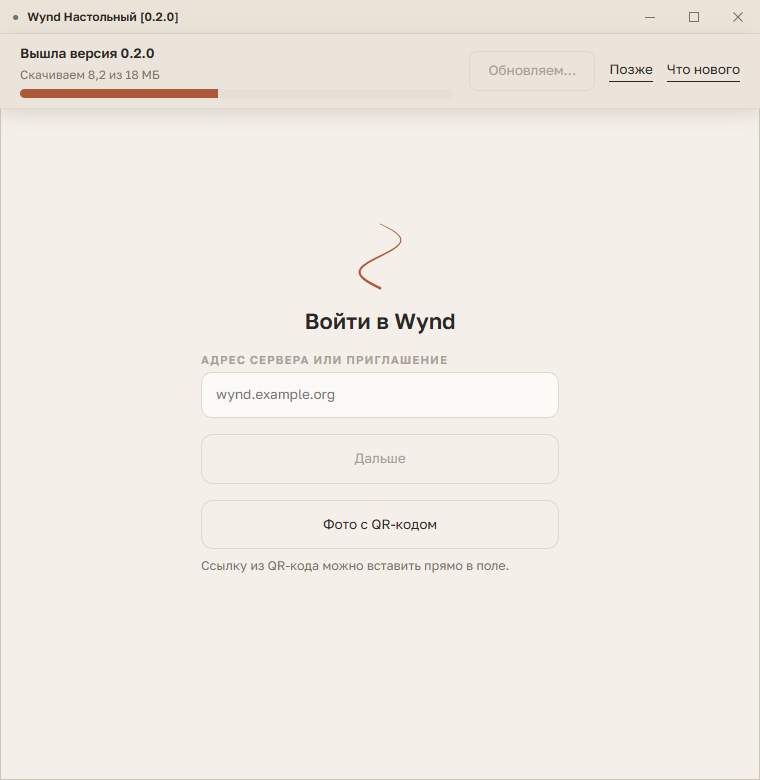
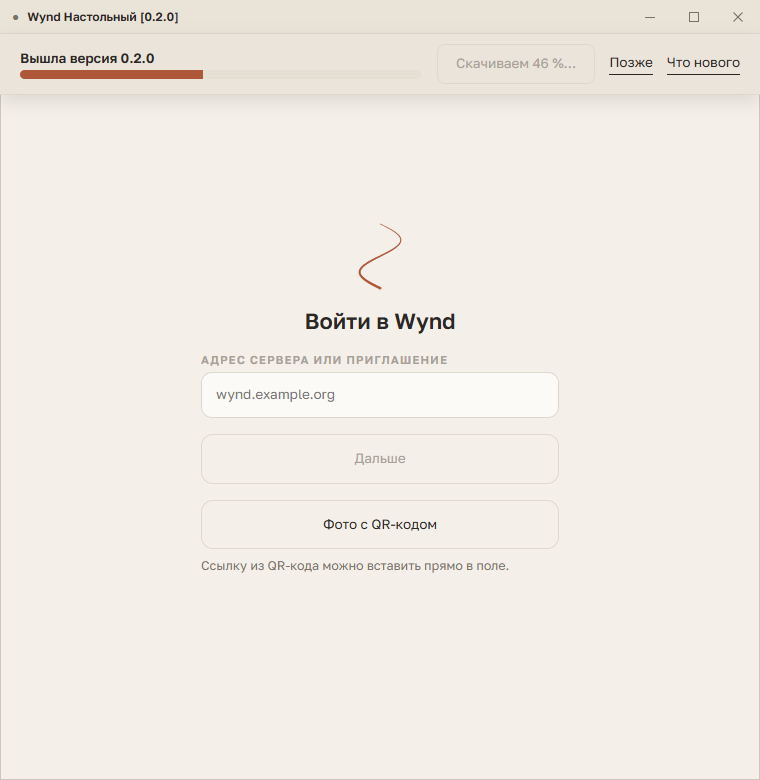
Ход скачивания — внутри полосы, высота прежняя
По замечанию владельца: строка под заголовком раздувала полосу до 75 px. Теперь Meter под заголовком внутри ряда кнопок (колонка 30,6 меньше ряда 37,6), числа — процентом на кнопке «Скачиваем 46 %…». Полоса 58,6 в покое и 60,6 в установке — разница 2 px от рамки выключенной кнопки, не от хода. Кадр и замеры обновлены; первая редакция записана как отклонённая.

diff --git a/cmd/wynd-desktop/frontend/src/App.svelte b/cmd/wynd-desktop/frontend/src/App.svelte
@@ -58,6 +58,12 @@
 	let updateError = $state('');
 	// Ход скачивания обновления, пока идёт установка.
 	let updateProgress = $state({ done: 0, total: 0 });
+	// Процент для кнопки: «Скачиваем 46 %…».
+	const percent = $derived(
+		updateProgress.total > 0
+			? Math.min(100, Math.round((updateProgress.done / updateProgress.total) * 100))
+			: 0
+	);
 	let progressTimer: ReturnType<typeof setInterval> | undefined;
 	let maximised = $state(false);
 	let address = $state('');
@@ -256,12 +262,6 @@
 	async function syncMaximised() {
 		maximised = (await rt?.WindowIsMaximised().catch(() => false)) ?? false;
 	}
-
-	// Метры для строки хода скачивания: 8,2 / 18 (мегабайты, как в выпуске).
-	const megabytes = (bytes: number) => {
-		const mb = bytes / 1_000_000;
-		return mb.toLocaleString('ru-RU', { maximumFractionDigits: mb < 10 ? 1 : 0 });
-	};
 
 	// Пока идёт установка, спрашиваем у оболочки, сколько уже скачано: окно не
 	// молчит на многомегабайтном файле (C153: «Обновляем…» без конца).
@@ -520,17 +520,10 @@
 						<div class="desk-update-bad">Подпись не сошлась: обновление не установлено.</div>
 					{:else if updateError}
 						<div class="desk-update-bad" role="alert">{updateError}</div>
-					{:else if updateBusy && updateProgress.done > 0}
-						<div class="desk-update-progress" aria-live="polite">
-							{#if updateProgress.total > 0}
-								Скачиваем {megabytes(updateProgress.done)} из {megabytes(updateProgress.total)} МБ
-							{:else}
-								Скачиваем {megabytes(updateProgress.done)} МБ
-							{/if}
-						</div>
-						{#if updateProgress.total > 0}
-							<Meter value={updateProgress.done} max={updateProgress.total} />
-						{/if}
+					{:else if updateBusy && updateProgress.total > 0}
+						<!-- Ход скачивания — внутри полосы: полоса Meter под заголовком
+						     укладывается в высоту ряда кнопок, полоса не растёт. -->
+						<Meter value={updateProgress.done} max={updateProgress.total} />
 					{/if}
 				</div>
 				<div class="desk-update-actions">
@@ -538,7 +531,9 @@
 						variant="colored"
 						disabled={updateBusy || updateBad}
 						loading={updateBusy}
-						loadingLabel="Обновляем…"
+						loadingLabel={updateProgress.total > 0
+							? `Скачиваем ${percent} %…`
+							: 'Обновляем…'}
 						onclick={() => void applyUpdate()}
 					>
 						Обновить и перезапустить

diff --git a/cmd/wynd-desktop/frontend/mock/mock.js b/cmd/wynd-desktop/frontend/mock/mock.js
@@ -87,11 +87,18 @@ void import('../src/main.ts');
 const tick = (ms) => new Promise((r) => setTimeout(r, ms));
 if (params.get('apply') === '1' || params.get('update') === 'progress') {
 	void (async () => {
-		await tick(900);
-		const button = [...document.querySelectorAll('button')].find((b) =>
-			b.textContent.trim().startsWith('Обновить и перезапустить')
-		);
-		if (!button) throw new Error('кадр: нет кнопки обновления');
-		button.click();
+		// Кнопка появляется, когда CheckSelfUpdate ответил; на холодном vite
+		// это бывает позже 900 мс — ждём её, а не падаем.
+		for (let i = 0; i < 40; i++) {
+			const button = [...document.querySelectorAll('button')].find((b) =>
+				b.textContent.trim().startsWith('Обновить и перезапустить')
+			);
+			if (button) {
+				button.click();
+				return;
+			}
+			await tick(250);
+		}
+		throw new Error('кадр: нет кнопки обновления');
 	})();
 }

diff --git a/cmd/wynd-desktop/frontend/src/app.css b/cmd/wynd-desktop/frontend/src/app.css
@@ -60,15 +60,10 @@ body {
 .desk-update-bad {
 	color: var(--terracotta);
 }
-/* Ход скачивания обновления: строка с метрами и полоса Meter под ней, пока
-   идёт установка. Появляется, когда известен хоть один скачанный байт. */
-.desk-update-progress {
-	margin-top: 2px;
-	font-size: 12px;
-	color: var(--muted);
-}
+/* Ход скачивания обновления: полоса Meter под заголовком, внутри ряда кнопок
+   — 18,85 + 2 + 9 = 30 px меньше высоты кнопки (38), полоса не растёт. */
 .desk-update .meter {
-	margin: 6px 0 0;
+	margin: 2px 0 0;
 }
 .desk-update .btn {
 	display: inline-block;

diff --git a/docs/testing/pending-device-checks.md b/docs/testing/pending-device-checks.md
@@ -412,4 +412,4 @@ AAB собирать из `android-v0.1.5` или новее, редакция `
 
 Правка в `main` 27.11; в 0.5.5 её нет. Вёрстка ждёт приёмки владельца; проверка — в следующем выпуске окна.
 
-- [ ] **Установка показывает ход.** Нажать «Обновить и перезапустить»: под заголовком полосы появляется «Скачиваем 8,2 из 18 МБ» и полоса заполнения, числа растут; после установки окно перезапускается (C153). В покое и при отказе подписи строки хода нет. [Протокол](desktop-update-progress-2026-11-27/README.md).
+- [ ] **Установка показывает ход.** Нажать «Обновить и перезапустить»: под заголовком полосы появляется полоса заполнения, на кнопке — «Скачиваем 46 %…», числа растут; высота полосы прежняя. После установки окно перезапускается (C153). В покое и при отказе подписи хода нет. [Протокол](desktop-update-progress-2026-11-27/README.md).
